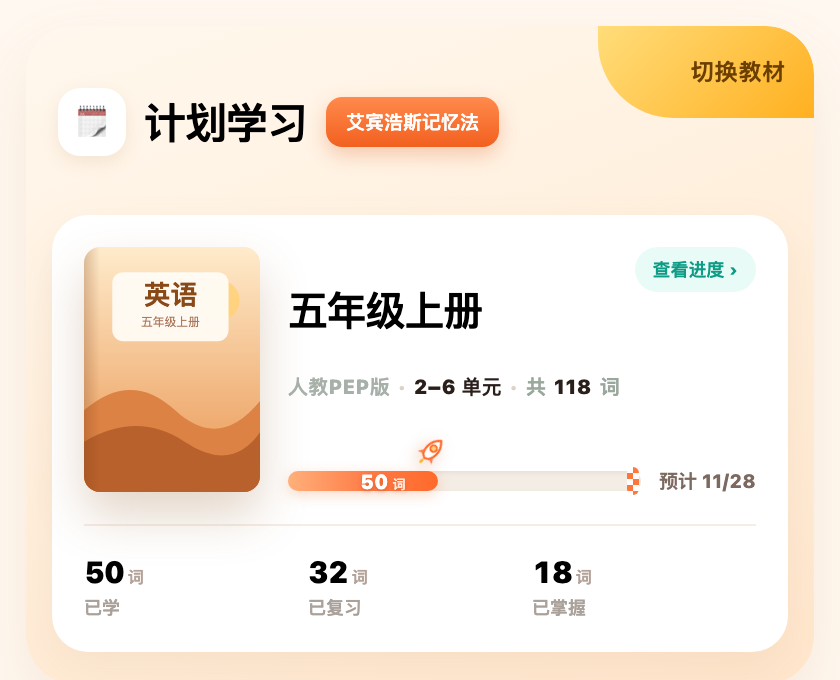
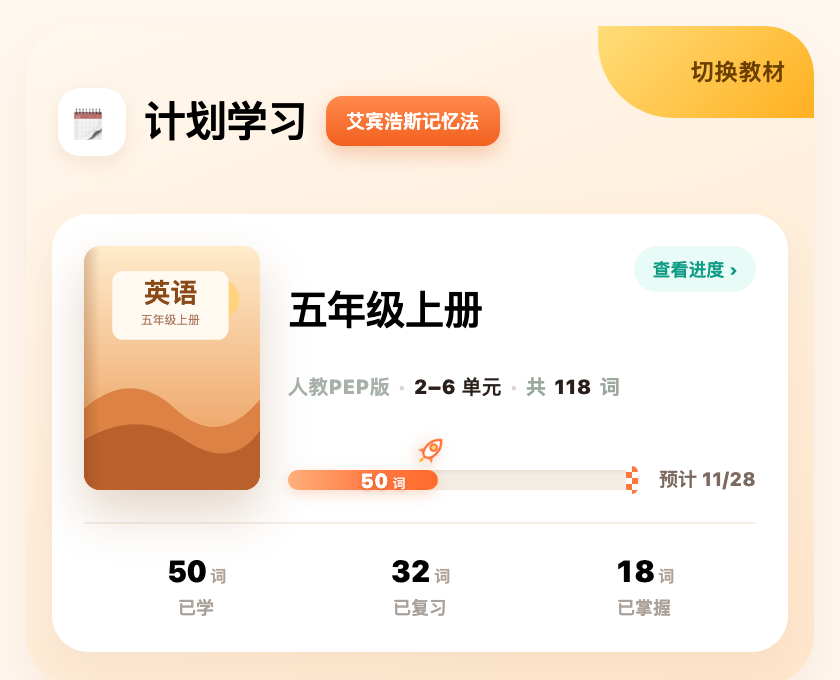
B 方案底部统计居中：更新三张静态图与冲刺动图，原型 C 版同步

diff --git a/plan-card-bar-indent.html b/plan-card-bar-indent.html
@@ -100,7 +100,7 @@
   .v-c .barrow{margin-top:22px}
   .stats3{display:grid;grid-template-columns:repeat(3,1fr);margin-top:16px;padding-top:14px;
     border-top:1px solid #F6EDE5}
-  .stats3 > div{display:flex;flex-direction:column;gap:3px}
+  .stats3 > div{display:flex;flex-direction:column;gap:3px;align-items:center;text-align:center}
   .stats3 b{font-size:15px;font-weight:900;letter-spacing:-.3px;font-variant-numeric:tabular-nums}
   .stats3 b small{font-size:8px;font-weight:800;color:#B3A298;margin-left:2px}
   .stats3 span{font-size:9px;font-weight:800;color:#A9A19A}
